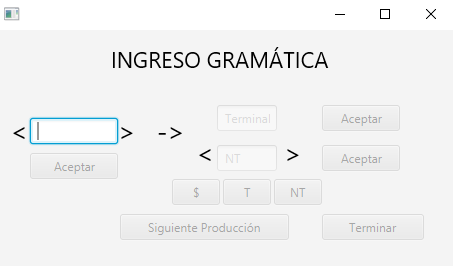
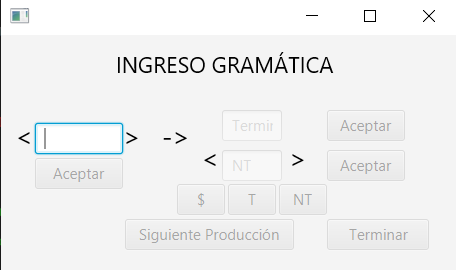
Práctica Terminada

diff --git a/src/practica2teoria/FXMLAutomataController.java b/src/practica2teoria/FXMLAutomataController.java
@@ -37,6 +37,12 @@ public class FXMLAutomataController implements Initializable {
     public void initialize(URL url, ResourceBundle rb) {
         cajaTextoAutomata.setText(Automata.hileraAutomata);
     }
+    
+    /**
+     * Reinicia el proceso de la gramática.
+     * @param event
+     * @throws Exception 
+     */
     @FXML
     public void botonNuevaGramaticaAccionado(ActionEvent event) throws Exception {
         FXMLDocumentController.reinicializarGramatica();

diff --git a/src/practica2teoria/FXMLGramaticaController.java b/src/practica2teoria/FXMLGramaticaController.java
@@ -51,6 +51,11 @@ public class FXMLGramaticaController implements Initializable {
         hileraConjuntos.setText(tipoGramatica.hileConjuntos);
     }
     
+    /**
+     * Abre una nueva ventana donde se mostrará el autómata.
+     * @param event
+     * @throws Exception 
+     */
     @FXML
     public void botonAutomata(ActionEvent event) throws Exception{
         //tipoGramatica tipo = new tipoGramatica();

diff --git a/src/practica2teoria/Automata.java b/src/practica2teoria/Automata.java
@@ -22,7 +22,7 @@ public class Automata {
     /**
      * Encuentra los símbolos de la pila, evaluando cada una de las producciones
      * y buscando los terminales que se encuentren un un α o β y agregando
-     * "vacia" que es lo que remplazara al simbolo ▼
+     * "vacia" que es lo que remplazara al simbolo ▼.
      *
      */
     

diff --git a/src/practica2teoria/Practica2Teoria.java b/src/practica2teoria/Practica2Teoria.java
@@ -22,7 +22,7 @@ public class Practica2Teoria extends Application {
         Parent root = FXMLLoader.load(getClass().getResource("FXMLDocument.fxml"));
         
         Scene scene = new Scene(root);
-        
+        stage.setResizable(false);
         stage.setScene(scene);
         stage.show();
     }
